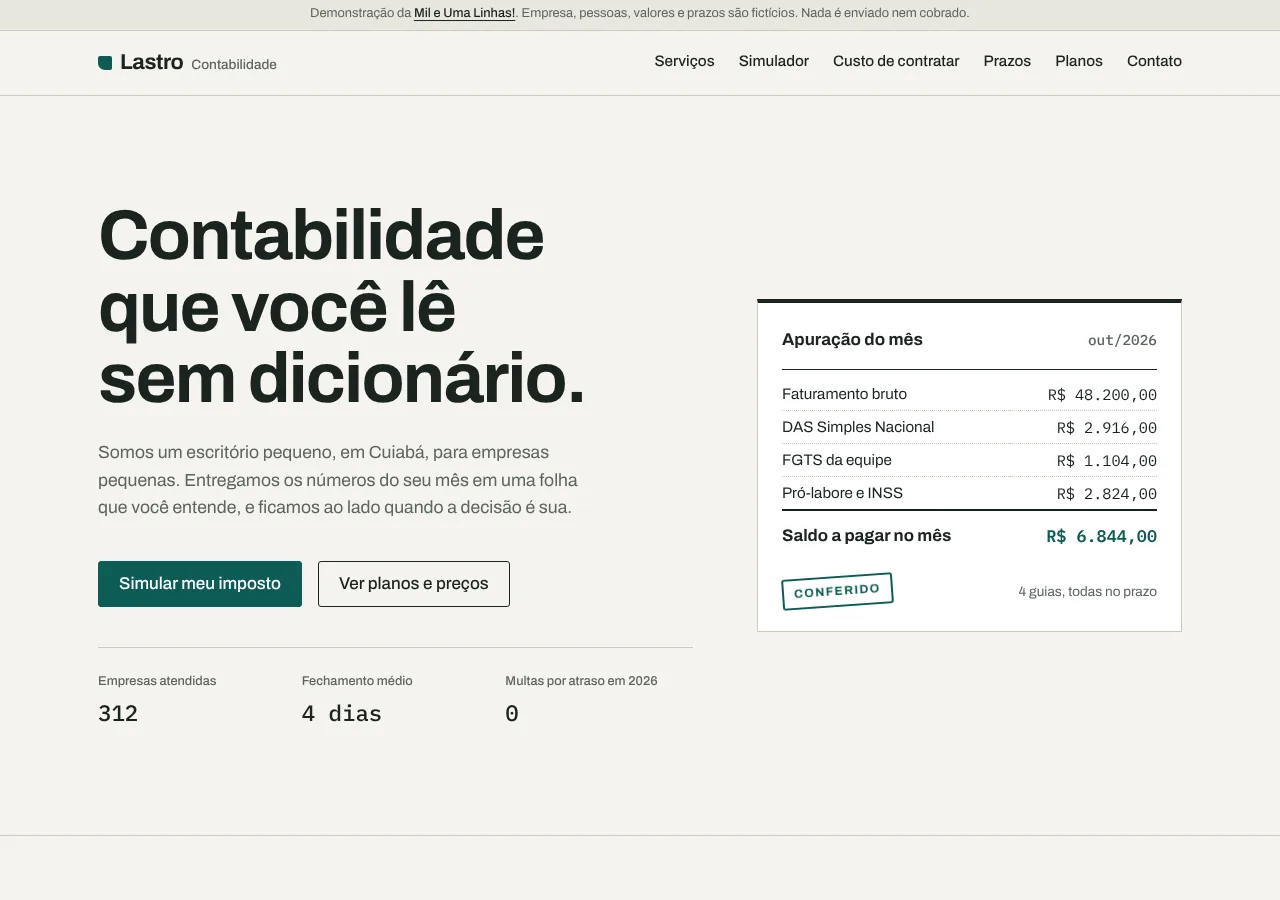
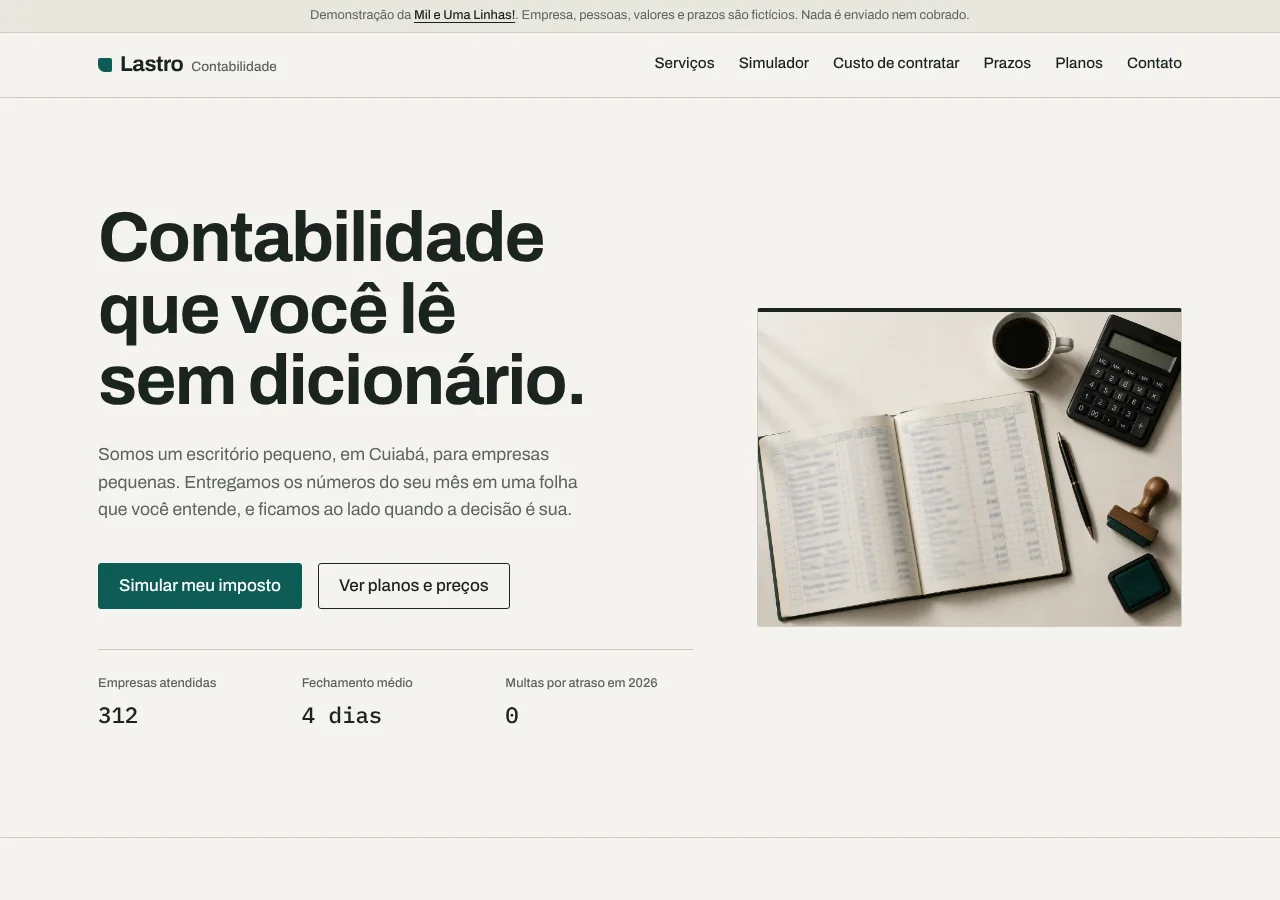
Troca o hero desenhado por foto gerada por IA
Substitui o painel de apuração desenhado em HTML e CSS (com o carimbo
"Conferido") por uma foto de uma mesa de escritório com livro-caixa,
calculadora, café e carimbo (img/hero.webp, 1440x1080, gerada por IA no
Canva e ilustrativa).

- index.html: img.hero-foto com width/height, alt descritivo e
  fetchpriority=high dentro de um contêiner 4:3; CSP mantida; o texto do
  hero e os três números abaixo dele não mudaram.
- assets/estilo.css: contêiner com aspect-ratio 4/3, object-fit cover,
  fio de 1 px, filete de tinta no topo (como a folha antiga), cantos de
  3 px e cor média da foto como fundo enquanto carrega; no celular a foto
  abre a página e o texto vem logo abaixo; removidos os estilos da folha,
  da tabela e do carimbo.
- assets/app.js: a contagem da abertura passa a valer só para os números
  do hero (312 empresas, 4 dias); removido o que era do carimbo e dos
  valores em moeda da folha.
- tests/site.cjs: confere que a foto carregou, tem alt, 4:3, cabe na tela
  e que nenhum texto do hero fica por cima dela; a checagem da abertura
  agora olha os números do hero.
- docs/identidade.md e README.md: descrevem a foto, o aviso de que é
  gerada por IA e o prompt resumido.
- docs/capa-desktop.webp e docs/capa-celular.webp refeitas.

Claude-Session: https://claude.ai/code/session_015DVsuVad392kn1wvAjF541

diff --git a/assets/estilo.css b/assets/estilo.css
@@ -139,33 +139,24 @@ strong { font-weight: 700; }
 .hero-dados dd { margin: 4px 0 0; font-family: var(--fonte-num); font-size: 1.4rem; font-weight: 500; }
 @media (max-width: 420px) { .hero-dados { grid-template-columns: 1fr; gap: var(--e2); } .hero-dados div { display: flex; justify-content: space-between; align-items: baseline; gap: 12px; } .hero-dados dd { margin: 0; } }
 
-/* A folha de apuração (imagem forte) */
-.folha {
-  background: #fff;
+/* A foto do hero (imagem forte): moldura como a da folha de razão, fio fino e filete de tinta no topo */
+.hero-foto-caixa {
+  aspect-ratio: 4 / 3;
+  background: #B1ACA2; /* média da foto: aparece enquanto ela carrega */
   border: 1px solid var(--fio);
   border-top: 4px solid var(--tinta);
-  padding: var(--e3);
-  position: relative;
+  border-radius: var(--raio);
+  overflow: hidden;
 }
-.folha-cabecalho { display: flex; justify-content: space-between; align-items: baseline; font-weight: 700; padding-bottom: var(--e2); border-bottom: 1px solid var(--tinta); }
-.folha-cabecalho .mono { font-weight: 500; color: var(--grafite); font-size: 0.9rem; }
-.folha-tabela { width: 100%; border-collapse: collapse; margin-top: var(--e1); }
-.folha-tabela th, .folha-tabela td { padding: 7px 0; text-align: left; font-weight: 400; font-size: 0.95rem; line-height: 18px; }
-.folha-tabela td { text-align: right; white-space: nowrap; }
-.folha-tabela tbody tr { border-bottom: 1px dotted var(--fio); }
-.folha-tabela tfoot th, .folha-tabela tfoot td { font-weight: 700; padding-top: var(--e2); border-top: 2px solid var(--tinta); font-size: 1.05rem; }
-.folha-tabela .destaque { color: var(--petroleo); font-weight: 600; }
-.folha-rodape { display: flex; justify-content: space-between; align-items: center; margin-top: var(--e3); gap: var(--e2); flex-wrap: wrap; }
-.folha-nota { color: var(--grafite); font-size: 0.85rem; }
-.carimbo {
-  display: inline-block; font-weight: 700; text-transform: uppercase; letter-spacing: 0.12em; font-size: 0.75rem;
-  color: var(--petroleo); border: 2px solid var(--petroleo); padding: 4px 10px; border-radius: 3px; transform: rotate(-4deg);
-  opacity: 1;
+.hero-foto { display: block; width: 100%; height: 100%; object-fit: cover; }
+@media (max-width: 899px) {
+  .hero-foto-caixa { order: -1; } /* no celular a foto abre a página, o texto vem logo abaixo */
+  .hero { padding-top: var(--e3); }
 }
-.folha.animando .carimbo { opacity: 0; }
-.folha.carimbado .carimbo { animation: carimbar 320ms cubic-bezier(.2,.9,.3,1.2) forwards; }
-@keyframes carimbar { from { opacity: 0; transform: rotate(-4deg) scale(1.6); } to { opacity: 1; transform: rotate(-4deg) scale(1); } }
-@media (max-width: 380px) { .folha { padding: var(--e2); } .folha-tabela th, .folha-tabela td { font-size: 0.85rem; } }
+@media (prefers-reduced-motion: no-preference) {
+  .hero-foto { animation: foto-entra 800ms ease-out both; }
+  @keyframes foto-entra { from { opacity: 0; } to { opacity: 1; } }
+}
 
 /* Seções */
 .secao { padding: var(--e5) 0; border-bottom: 1px solid var(--fio); scroll-margin-top: 64px; }

diff --git a/index.html b/index.html
@@ -56,26 +56,8 @@
           </dl>
         </div>
 
-        <div class="folha" role="img" aria-label="Painel ilustrativo de apuração do mês: faturamento de 48.200 reais, DAS do Simples de 2.916 reais, FGTS de 1.104 reais, pró-labore de 2.824 reais, saldo a pagar de 6.844 reais, conferido.">
-          <div class="folha-cabecalho">
-            <span>Apuração do mês</span>
-            <span class="mono">out/2026</span>
-          </div>
-          <table class="folha-tabela" aria-hidden="true">
-            <tbody>
-              <tr><th>Faturamento bruto</th><td class="mono"><span data-conta="48200" data-moeda>R$ 48.200,00</span></td></tr>
-              <tr><th>DAS Simples Nacional</th><td class="mono"><span data-conta="2916" data-moeda>R$ 2.916,00</span></td></tr>
-              <tr><th>FGTS da equipe</th><td class="mono"><span data-conta="1104" data-moeda>R$ 1.104,00</span></td></tr>
-              <tr><th>Pró-labore e INSS</th><td class="mono"><span data-conta="2824" data-moeda>R$ 2.824,00</span></td></tr>
-            </tbody>
-            <tfoot>
-              <tr><th>Saldo a pagar no mês</th><td class="mono destaque"><span data-conta="6844" data-moeda>R$ 6.844,00</span></td></tr>
-            </tfoot>
-          </table>
-          <div class="folha-rodape" aria-hidden="true">
-            <span class="carimbo">Conferido</span>
-            <span class="folha-nota">4 guias, todas no prazo</span>
-          </div>
+        <div class="hero-foto-caixa">
+          <img class="hero-foto" src="img/hero.webp" width="1440" height="1080" alt="Mesa de escritório vista de cima: um livro-caixa aberto, com colunas e valores desfocados, uma xícara de café preto, uma calculadora preta, uma caneta esferográfica, um carimbo de madeira e uma almofada de tinta verde-escura." fetchpriority="high">
         </div>
       </div>
     </section>

diff --git a/assets/app.js b/assets/app.js
@@ -67,14 +67,11 @@
     });
   })();
 
-  /* ---------- Abertura: os números da folha "fecham" ---------- */
+  /* ---------- Abertura: os números do hero contam até o valor final ---------- */
   (function abertura() {
-    var folha = $(".folha");
     var alvos = $$("[data-conta]");
-    if (!folha || !alvos.length) return;
-    if (reduzMovimento) { folha.classList.add("carimbado"); return; }
+    if (!alvos.length || reduzMovimento) return; /* sem movimento, os números já estão prontos no HTML */
 
-    folha.classList.add("animando");
     var duracao = 1200;
     var inicio = null;
 
@@ -84,19 +81,9 @@
       var e = 1 - Math.pow(1 - p, 3);
       alvos.forEach(function (el) {
         var alvo = Number(el.getAttribute("data-conta"));
-        var atual = alvo * e;
-        if (el.hasAttribute("data-moeda")) {
-          el.textContent = moeda(p === 1 ? alvo : atual);
-        } else {
-          el.textContent = fmtInteiro.format(Math.round(atual)) + (el.getAttribute("data-sufixo") || "");
-        }
+        el.textContent = fmtInteiro.format(Math.round(alvo * e)) + (el.getAttribute("data-sufixo") || "");
       });
-      if (p < 1) {
-        window.requestAnimationFrame(desenhar);
-      } else {
-        folha.classList.remove("animando");
-        folha.classList.add("carimbado");
-      }
+      if (p < 1) window.requestAnimationFrame(desenhar);
     }
     window.requestAnimationFrame(desenhar);
   })();

diff --git a/docs/identidade.md b/docs/identidade.md
@@ -12,9 +12,9 @@ Frase de posicionamento: "Contabilidade que você lê sem dicionário." A promes
 
 ## Conceito visual: a folha de razão
 
-A imagem mental é o livro razão (ledger): colunas, linhas finas, números alinhados à direita, carimbos de conferência. O site inteiro é tratado como uma folha de contabilidade bem diagramada: muita linha horizontal fina, quase nenhum cartão flutuante, nenhuma sombra decorativa. Os números são os protagonistas; o texto serve a eles.
+A imagem mental é o livro razão (ledger): colunas, linhas finas, números alinhados à direita, carimbo de conferência. O site inteiro é tratado como uma folha de contabilidade bem diagramada: muita linha horizontal fina, quase nenhum cartão flutuante, nenhuma sombra decorativa. Os números são os protagonistas; o texto serve a eles.
 
-Uma coisa memorável por tela: no hero, um grande painel de apuração desenhado em HTML e CSS cujos números "fecham" ao abrir a página (o único movimento orquestrado do site). Nas demais telas, o destaque é sempre um número grande em petróleo.
+Uma coisa memorável por tela: no hero, uma foto de um livro-caixa aberto sobre a mesa, com carimbo e calculadora, ao lado dos três números da empresa que contam até o valor final ao abrir a página (o único movimento orquestrado do site). Nas demais telas, o destaque é sempre um número grande em petróleo.
 
 ## Paleta
 
@@ -67,13 +67,25 @@ Regra de peso: títulos sempre 700, nunca itálico. Números grandes sempre em P
 
 ## Imagem forte do hero
 
-Um painel de apuração desenhado em HTML e CSS (sem imagem): uma folha com cabeçalho "Apuração do mês", quatro linhas de conta com valores em Plex Mono, e uma linha final "Saldo a pagar" em petróleo. Ao carregar, os valores contam de zero até o número final em 1,2 segundo, e um carimbo "Conferido" aparece por último. Com `prefers-reduced-motion`, os valores já aparecem prontos e o carimbo fica fixo.
+O hero é uma **foto gerada por IA (Canva)**, ilustrativa: uma mesa de escritório vista de cima, em tom de papel, com um livro-caixa aberto (as colunas e os valores estão desfocados de propósito, para não haver número falso legível), uma xícara de café preto, uma calculadora, uma caneta esferográfica e um carimbo de madeira com a almofada de tinta em verde-escuro. O verde da almofada ecoa o Petróleo da paleta e o livro aberto é a folha de razão em versão real. Não há pessoas.
 
-Ícones: nenhum pacote de ícones. Os poucos sinais gráficos (marcador de prazo, seta de ordenação, carimbo) são SVG inline mínimos ou caracteres tipográficos.
+A moldura repete a da antiga folha de apuração: fio fino de 1 px na cor Fio, filete de 4 px em Tinta no topo e cantos de 3 px. O contêiner tem proporção fixa de 4:3 e mostra a cor média da foto enquanto ela carrega.
+
+O painel desenhado em HTML e CSS ("Apuração do mês", com o carimbo "Conferido") foi retirado do hero. Os três números da abertura (empresas atendidas, fechamento médio e multas) continuam abaixo do texto e continuam contando até o valor final.
+
+### Foto do hero
+
+- **Arquivo**: `img/hero.webp`, 1440 x 1080 px, proporção 4:3.
+- **Origem**: gerada por IA no Canva. O README e este estudo avisam que é ilustrativa.
+- **Prompt resumido**: "Mesa de escritório de contabilidade vista de cima, superfície em tom de papel marfim. Livro-caixa grande aberto, com colunas e linhas de valores desfocadas, uma xícara de café preto, uma calculadora preta, uma caneta esferográfica preta com detalhe dourado, um carimbo de madeira e uma almofada de tinta verde-escura. Luz suave de janela com sombras listradas, muito espaço livre. Estilo editorial de site premium, sem texto legível, sem pessoas, proporção 4:3."
+- **Texto alternativo**: descreve o livro-caixa, o café, a calculadora, a caneta, o carimbo e a almofada de tinta.
+- **Texto do hero**: fica ao lado da foto no computador e abaixo dela no celular, nunca por cima. O contraste do texto é o da página (Tinta sobre Papel) e não depende da foto.
+
+Ícones: nenhum pacote de ícones. Os poucos sinais gráficos (marcador de prazo, seta de ordenação) são SVG inline mínimos ou caracteres tipográficos.
 
 ## Movimento
 
-- Um momento orquestrado: a contagem dos números do hero.
+- Um momento orquestrado: a contagem dos números do hero (312 empresas, 4 dias). A foto só ganha um fade de 800 ms.
 - Respostas a ações: o resultado do simulador e da calculadora troca de valor com uma transição de opacidade de 180ms; as barras de comparação crescem em 400ms; os filtros do calendário escondem e mostram itens sem animação de altura.
 - Tudo desligado sob `prefers-reduced-motion: reduce`.
 

diff --git a/README.md b/README.md
@@ -34,12 +34,13 @@ Empresa, pessoas, CRC, endereço, telefone, depoimentos, preços e datas do cale
 
 ## Identidade visual, em resumo
 
-A ideia é a **folha de razão**: linhas finas, números alinhados à direita, um carimbo de "Conferido". Nada de cartões flutuando com sombra, nada de gradiente, nada de azul de banco.
+A ideia é a **folha de razão**: linhas finas, números alinhados à direita, a foto de um livro-caixa com carimbo no topo. Nada de cartões flutuando com sombra, nada de gradiente, nada de azul de banco.
 
 - **Paleta**: Papel `#F5F4EF` (fundo), Pauta `#E9E7DF` (faixas e campos), Fio `#CFCBBF` (linhas), Tinta `#1B2420` (texto), Grafite `#5B655F` (legendas), Petróleo `#0E5B55` (o único destaque de cada tela), Âmbar `#B9770E` (avisos e prazos próximos) e Ferrugem `#A63B2A` (só para valores negativos).
+- **Imagem forte**: uma foto de uma mesa de escritório com livro-caixa aberto, calculadora, café e carimbo (`img/hero.webp`). **A foto foi gerada por IA no Canva e é só ilustrativa**: a mesa e os valores do livro não existem. Os números do livro estão desfocados de propósito.
 - **Fontes**: Archivo (variável) para títulos e texto, IBM Plex Mono para todo número, valor e data. As duas são de licença aberta (SIL OFL) e ficam na pasta `fonts/`, sem Google Fonts nem CDN.
 - **Por quê**: em contabilidade o número é o produto. A fonte mono faz o visitante enxergar na hora que aquilo foi apurado, e o petróleo escuro sobre papel passa seriedade sem a cara genérica de banco.
-- **Movimento**: um único momento na abertura, quando os valores da folha de apuração contam até o número final e o carimbo aparece. Quem pede menos movimento no sistema (`prefers-reduced-motion`) vê tudo pronto.
+- **Movimento**: um único momento na abertura, quando os números do início (empresas atendidas, dias de fechamento) contam até o valor final. Quem pede menos movimento no sistema (`prefers-reduced-motion`) vê tudo pronto.
 
 O estudo completo está em [`docs/identidade.md`](docs/identidade.md).
 
@@ -59,7 +60,7 @@ Tudo acontece no seu navegador. Quando você muda um número, um programa em Jav
 
 ## Detalhes técnicos
 
-- HTML, CSS e JavaScript puros. Um `index.html`, um `assets/estilo.css`, um `assets/app.js`. Sem framework, sem biblioteca, sem CDN, sem analytics.
+- HTML, CSS e JavaScript puros. Um `index.html`, um `assets/estilo.css`, um `assets/app.js` e a foto `img/hero.webp`. Sem framework, sem biblioteca, sem CDN, sem analytics.
 - Content-Security-Policy por meta: `default-src 'self'`, sem script inline, sem estilo inline, `connect-src 'none'`, `form-action 'none'`. Larguras de barra são aplicadas por `element.style.setProperty`, que a CSP permite.
 - Simulador: Simples Nacional com as seis faixas dos anexos I, II, III e V, Fator R para serviços (folha dividida pela receita, 28%) e alíquota efetiva `(RBT12 × nominal − dedução) ÷ RBT12`. Presumido com presunção de 8% ou 32% para IRPJ e 12% ou 32% para CSLL, adicional de IRPJ sobre o que passa de R$ 20 mil por mês, PIS 0,65%, COFINS 3%, encargos patronais de 27,8% da folha e ICMS ou ISS informado. Real com IRPJ e CSLL sobre o lucro informado, PIS 1,65% e COFINS 7,6% sem créditos. Acima de R$ 4,8 milhões por ano o Simples sai da comparação.
 - Calculadora: 13º (1/12), férias com um terço (1/9), FGTS 8% sobre salário e provisões, encargos patronais de 27,8% fora do Simples, vale-transporte descontando 6% do salário.
